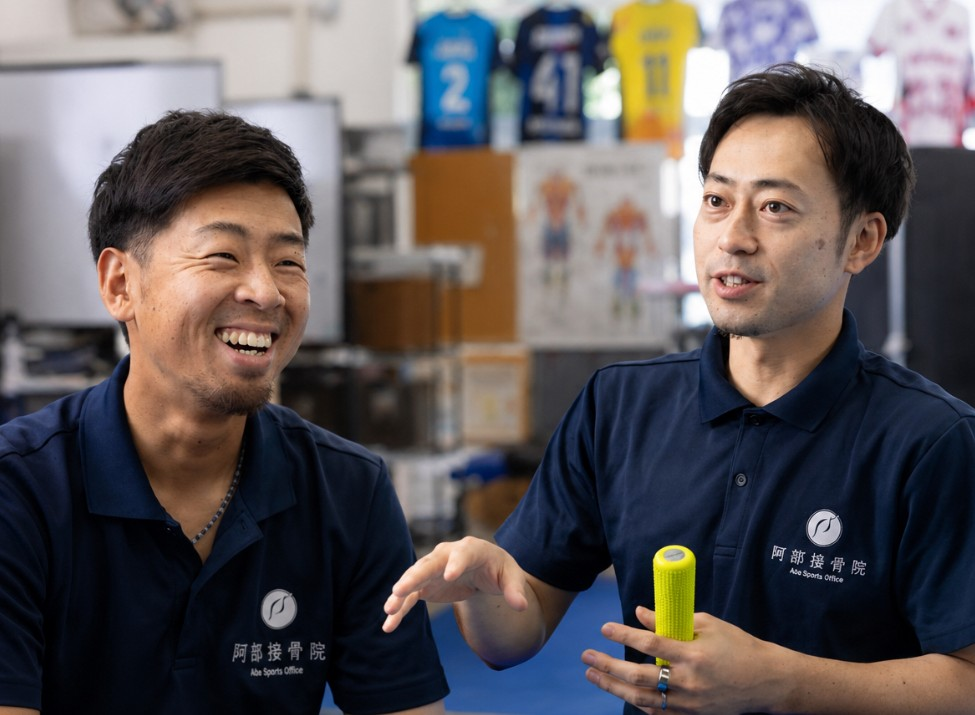
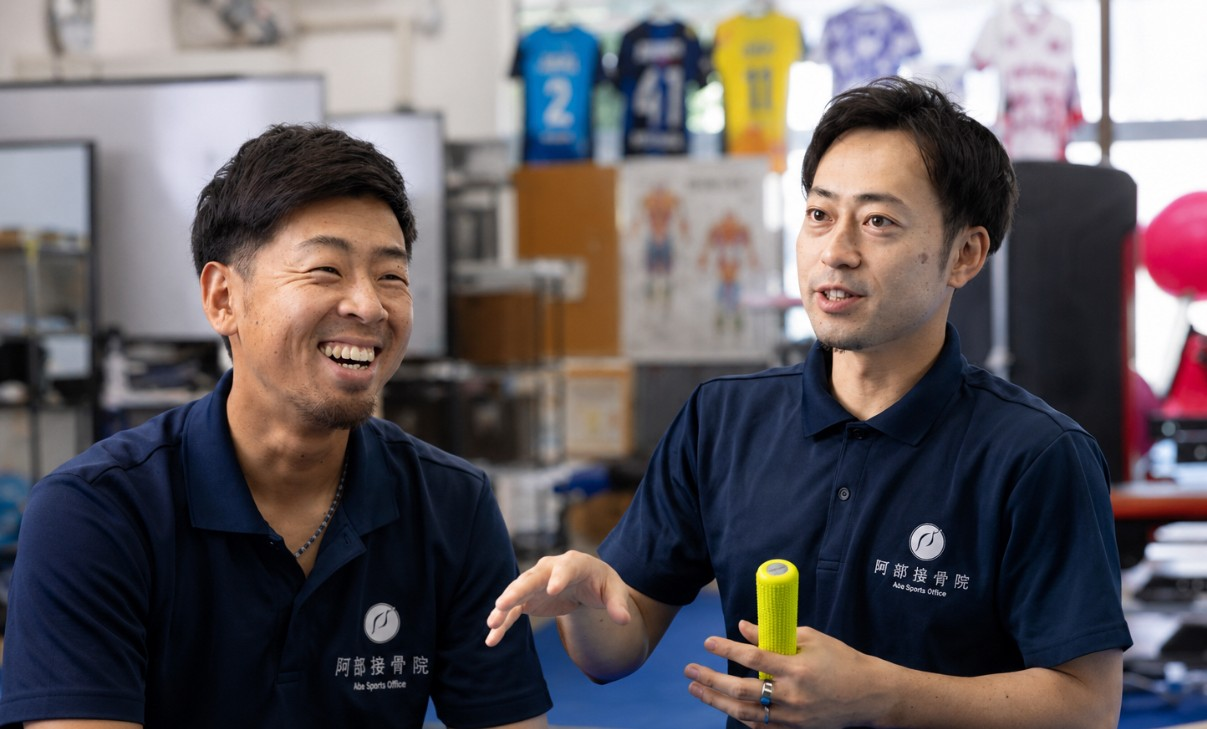
HEROをオーバーレイ構成に統一（全身寄り・暗め・文字は下寄せで顔を隠さない）／症例横スクロールを次カードがチラ見えに／シーバー病（小学サッカー）を追加

diff --git a/index.html b/index.html
@@ -468,6 +468,69 @@
             <p class="case__disc">※ 施術による変化には個人差があります。<br />※ 本症例は一例であり、同様の結果を保証するものではありません。</p>
           </div>
         </details>
+
+        <details class="case reveal">
+          <summary class="case__summary">
+            <span class="case__cat"><span class="case__icon">⚽</span>小学4年生 サッカー</span>
+            <h3 class="case__title">シーバー病</h3>
+            <p class="case__subtitle">（踵骨骨端症）</p>
+            <p class="case__lead">走る・ジャンプするたびに踵が痛い。足だけでなく、身体全体の使い方に着目した症例。</p>
+            <span class="case__more">
+              <span class="case__more-open">詳しく見る</span>
+              <span class="case__more-close">閉じる</span>
+              <span class="case__chev" aria-hidden="true"></span>
+            </span>
+          </summary>
+          <div class="case__detail">
+            <div class="case__block">
+              <h4 class="case__h">来院時の状態</h4>
+              <p>サッカーをしている小学4年生。</p>
+              <ul class="case__list">
+                <li>運動後に踵が痛い</li>
+                <li>走ると踵が痛い</li>
+                <li>ジャンプすると踵が痛い</li>
+              </ul>
+              <p>という症状で来院されました。サッカーは続けたいものの、運動量が増えると症状が強くなる状態でした。</p>
+            </div>
+            <div class="case__block">
+              <h4 class="case__h">評価してわかったこと</h4>
+              <p>評価を行うと、</p>
+              <ul class="case__list">
+                <li>足指が丸まりやすい（つかみ癖）</li>
+                <li>足部機能の低下</li>
+                <li>姿勢の崩れ</li>
+                <li>全身の筋緊張の増加</li>
+              </ul>
+              <p>がみられました。最近の子どもたちは姿勢の崩れや運動不足の影響から、身体全体の緊張が強くなっているケースも少なくありません。この症例でも、踵だけでなく身体全体のバランスに課題がみられました。</p>
+            </div>
+            <div class="case__block">
+              <h4 class="case__h">当院のアプローチ</h4>
+              <p>踵だけに施術を行うのではなく、</p>
+              <ul class="case__list">
+                <li>脊柱機能の調整</li>
+                <li>足部機能の改善</li>
+                <li>足指の使い方の再教育</li>
+                <li>身体全体のバランス調整</li>
+              </ul>
+              <p>を中心にアプローチしました。</p>
+            </div>
+            <div class="case__block">
+              <h4 class="case__h">施術後の変化（一例）</h4>
+              <p>初回の施術では、脊柱機能を調整しただけでもジャンプ時の痛みが大きく軽減しました。その後も、</p>
+              <ul class="case__list">
+                <li>足部機能の改善</li>
+                <li>足指の機能向上</li>
+                <li>身体全体のバランス調整</li>
+              </ul>
+              <p>を継続しながらサッカーを継続。運動量が増えた際に症状が出ることもありましたが、調整を続けることで痛みはほとんど気にならない状態となりました。</p>
+            </div>
+            <div class="case__block case__block--view">
+              <h4 class="case__h">阿部接骨院の視点</h4>
+              <p>痛みがなくなれば終わりではありません。シーバー病は成長期に多い症状ですが、身体の使い方や機能面に問題が残っていることもあります。阿部接骨院では、痛みの改善だけでなく、<strong>「もっと動ける身体づくり」</strong>までサポートしています。</p>
+            </div>
+            <p class="case__disc">※ 施術による変化には個人差があります。<br />※ 本症例は一例であり、同様の結果を保証するものではありません。</p>
+          </div>
+        </details>
       </div>
     </div>
   </section>

diff --git a/assets/css/style.css b/assets/css/style.css
@@ -1031,56 +1031,42 @@ p { margin: 0; }
 .section--s7 .hscroll { margin-block-start: clamp(40px, 8vw, 72px); }
 
 /* =================================================================
-   HERO 2人並び — スマホ:写真バンド＋下にテキスト / PC:写真の上に重ねる
+   HERO — 写真にテキストを重ねるオーバーレイ（全画面共通）
+   文字は下寄せ＋暗がりを下に強く。顔（上部）は明るめにして隠さない。
    ================================================================= */
 .hero {
-  flex-direction: column;
-  justify-content: flex-start;
-  background: var(--grad-deep);
-  padding-block-start: calc(env(safe-area-inset-top) + 58px);
+  justify-content: flex-end;
+  background: var(--field-2);
 }
-.hero__media {
-  position: relative;
-  inset: auto;
-  z-index: 0;
-  width: 100%;
-  flex: none;
-}
+.hero__scroll { display: none; }
+.hero__media { position: absolute; inset: 0; z-index: -1; }
 .hero__media img {
-  position: relative;
-  width: 100%;
-  height: auto;
-  max-height: 64svh;
+  width: 100%; height: 100%;
   object-fit: cover;
-  object-position: 50% 24%;
+  object-position: 64% 22%;
   transform: none;
   animation: none;
 }
 .hero__scrim {
   background:
-    linear-gradient(to bottom, rgba(6,12,24,0.42) 0%, rgba(6,12,24,0) 26%),
-    linear-gradient(to top, #0a1a30 0%, rgba(10,26,48,0) 30%);
+    linear-gradient(to top,
+      rgba(5,10,20,0.92) 0%, rgba(5,10,20,0.70) 26%, rgba(5,10,20,0.34) 52%,
+      rgba(5,10,20,0.12) 74%, rgba(5,10,20,0.22) 100%),
+    linear-gradient(95deg, rgba(5,10,20,0.55) 0%, rgba(5,10,20,0.12) 55%, rgba(5,10,20,0) 100%);
 }
 .hero__inner {
-  width: 100%;
-  margin-block-start: -1px;
-  padding-block: clamp(26px, 7vw, 52px) clamp(40px, 12vw, 76px);
-  color: #fff;
+  padding-block: clamp(86px, 18vh, 130px) clamp(40px, 9vw, 88px);
 }
 
 @media (min-width: 768px) {
-  .hero { justify-content: center; padding-block-start: 0; }
-  .hero__media { position: absolute; inset: 0; }
-  .hero__media img {
-    width: 100%; height: 100%; max-height: none;
-    object-fit: cover; object-position: 50% 30%;
-  }
+  .hero__media img { object-position: 50% 26%; }
   .hero__scrim {
     background:
-      linear-gradient(100deg, rgba(6,11,20,0.84) 0%, rgba(6,11,20,0.52) 42%, rgba(6,11,20,0.22) 72%, rgba(6,11,20,0.14) 100%),
-      linear-gradient(to top, rgba(6,11,20,0.5), rgba(6,11,20,0) 50%);
+      linear-gradient(to top,
+        rgba(5,10,20,0.86) 0%, rgba(5,10,20,0.5) 34%, rgba(5,10,20,0.22) 60%, rgba(5,10,20,0.12) 100%),
+      linear-gradient(95deg, rgba(5,10,20,0.68) 0%, rgba(5,10,20,0.24) 46%, rgba(5,10,20,0) 80%);
   }
-  .hero__inner { padding-block: clamp(40px, 12vh, 96px); }
+  .hero__inner { padding-block: clamp(56px, 10vh, 110px); }
 }
 
 /* =================================================================
@@ -1179,9 +1165,9 @@ p { margin: 0; }
 /* 症例を横スクロールカードに */
 .cases-track { align-items: flex-start; }
 .cases-track .case {
-  scroll-snap-align: start;
+  scroll-snap-align: center;
   flex: 0 0 auto;
-  width: clamp(272px, 84vw, 334px);
+  width: clamp(258px, 78vw, 340px);
 }
 .case[open] .case__detail {
   max-height: 64vh; overflow-y: auto; -webkit-overflow-scrolling: touch;